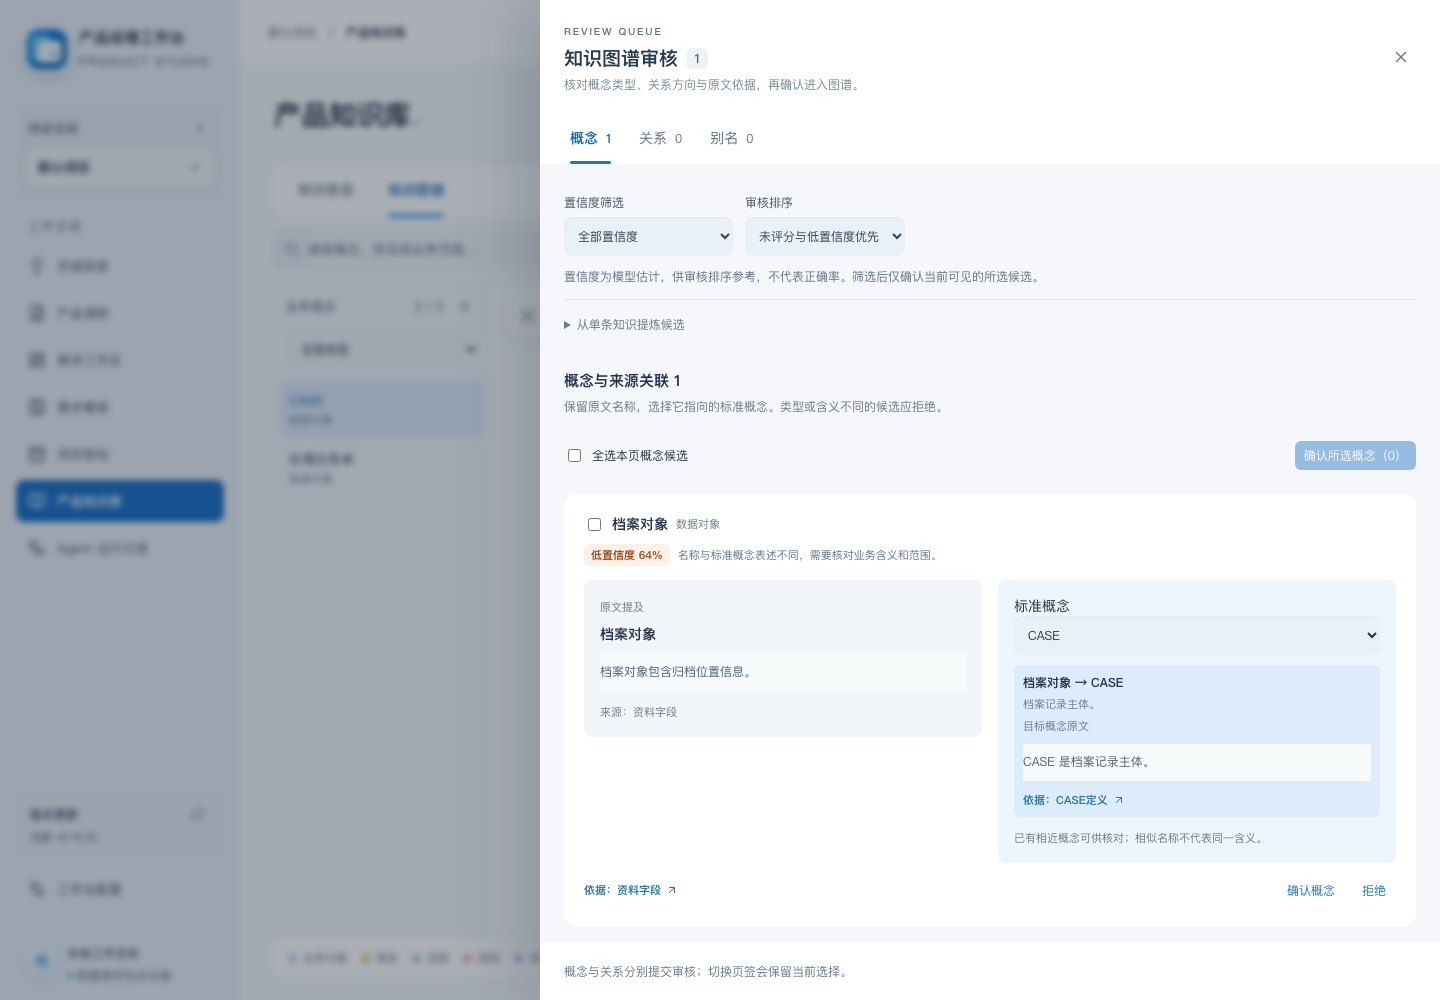
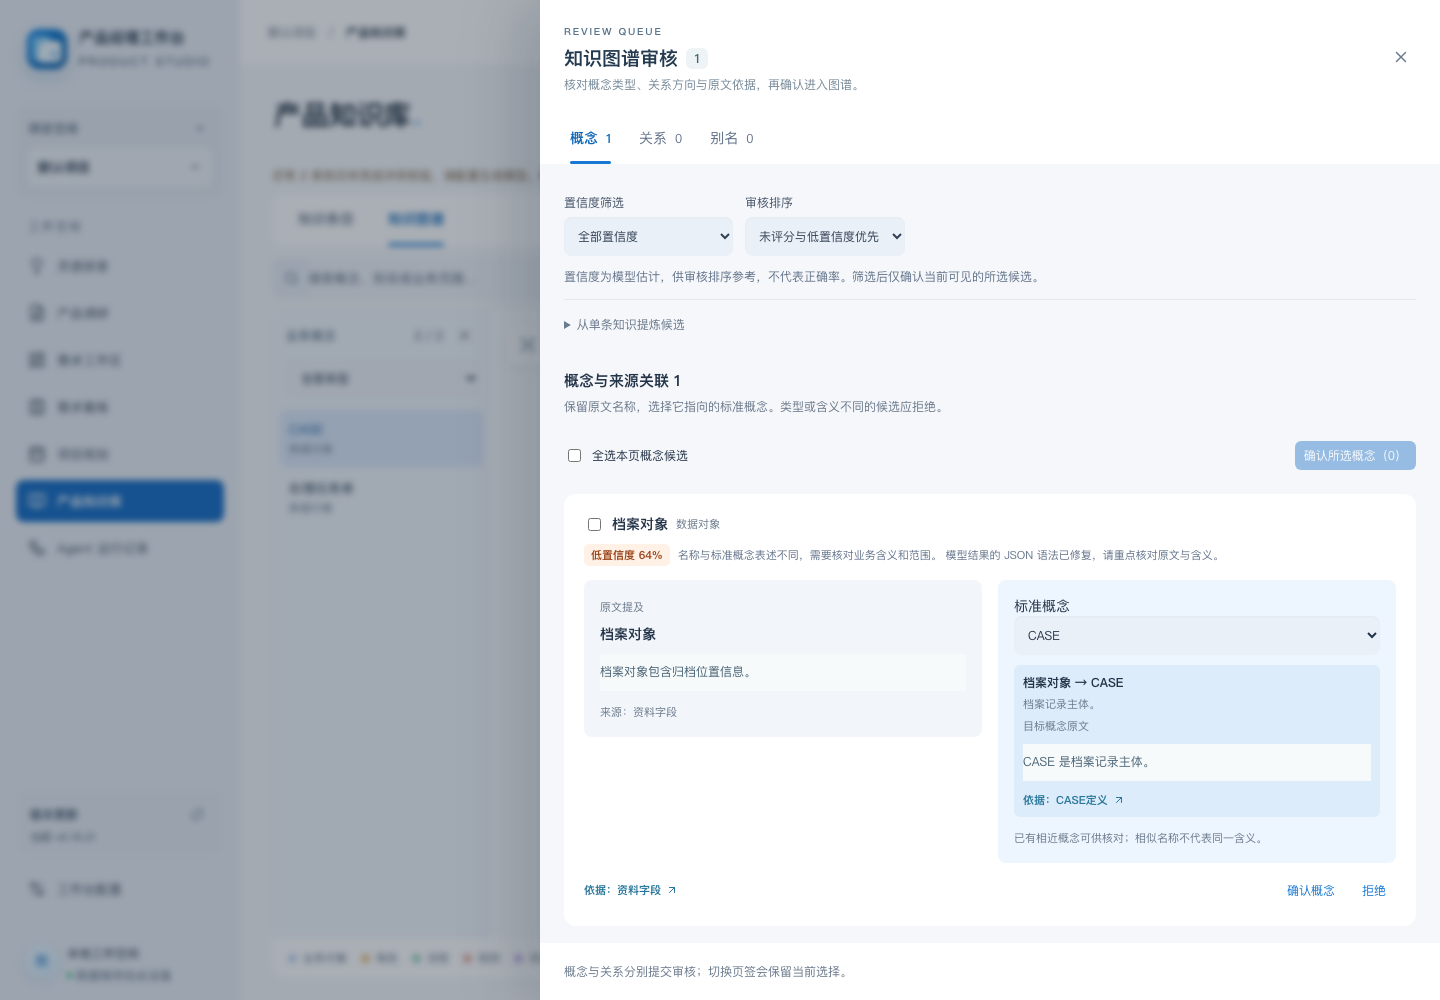
Document graph coverage validation and confidence review

Changed region(s): [[0.1875, 0.155, 0.375, 0.341], [0.1875, 0.341, 0.25, 0.496], [0.6562, 0.527, 0.8125, 0.558]]

diff --git a/INSTALL.md b/INSTALL.md
@@ -2,6 +2,14 @@
 
 此 ZIP 是服务端部署包，适用于 Node.js 22.13+。浏览器访问工作台，无需安装客户端。ZIP 不包含 Node.js、用户数据或访问口令。
 
+## 0.19.21 图谱补漏与输出校验
+
+首轮草稿与补漏结果使用相同的原文、类型和条件校验。无效草稿不再占用同名概念、关系去重位置和候选容量，补漏与已通过校验的候选合并；归属先按来源核对，再参与身份去重。完整代码按标识边界校验，示例关系不计入当前事实覆盖。
+
+完整结果中的引号、转义和逗号格式问题仅在内容保持一致时修复，不补造缺失字段、截断内容或省略结果。发生修复时提示重点核对，已有评分降至低置信度，未评分仍保持未评分；修复后继续校验原文与含义。模型仍可能遗漏或误判概念、关系及适用范围，所有候选都需要对照原文审核，置信度不是统计正确率。
+
+沿用 schema v43，升级保留既有知识、图谱和审核记录，不自动清空图谱或重跑模型。需要重新提炼时在图谱中明确选择来源执行。升级前备份完整数据目录和 `.env`，在新目录启动；回退同时恢复旧程序与升级前完整数据。
+
 ## 0.19.20 大图谱审核与提炼校验
 
 概念目录改为批量读取来源、别名和合并身份，审核页按需加载完整标准概念选项；仅候选信息变化时保留图谱画布。大型图谱减少布局与标签间距的重复计算，保留孤立概念、节点位置和来源追溯。
